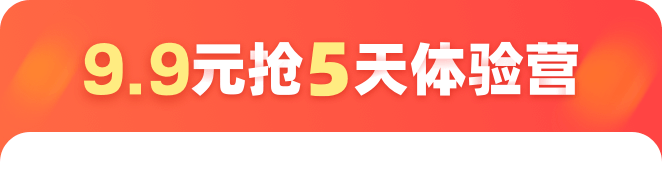
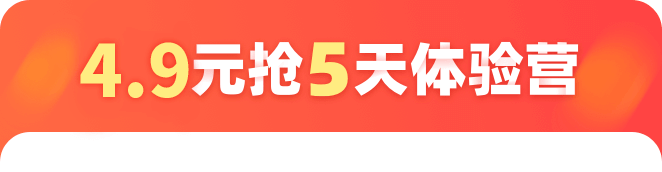
XYZOP-1340: [feature] index page change price to 4.9 and pkg

Changed region(s): [[0.1208, 0.2326, 0.2719, 0.5814], [0.2417, 0.2616, 0.3021, 0.407], [0.2417, 0.2326, 0.2719, 0.2616]]

diff --git a/src/pages/index.vue b/src/pages/index.vue
@@ -252,8 +252,9 @@ export default {
           this.isSys = 2
         }
       }
+      // 0 元对应pkg = 6  0.01 元对应pkg = 3  4.9 元对应pkg = 9
       this.showCents = this.configData.pkg === 6
-      this.bgUrl = this.showCents ? `${this.imgPath}/abtest/ai_referral_mina/default0.png?v=1` : (this.configData.pkg === 3 ? `${this.imgPath}/ai_mina/newIndex2/default001.png` : `${this.imgPath}/ai_mina/newIndex2/default99V1.png`)
+      this.bgUrl = this.showCents ? `${this.imgPath}/abtest/ai_referral_mina/default0.png?v=1` : (this.configData.pkg === 3 ? `${this.imgPath}/ai_mina/newIndex2/default001.png` : `${this.imgPath}/ai_mina/newIndex2/default99V1.png?123`)
       // String 类型试验（第二个参数 ""，表示未命中试验时，会返回此默认值，请根据业务需要更改此处的值）
       if (this.showCents) {
         let that = this
@@ -346,7 +347,7 @@ export default {
         user_status_num = '31'
       }
       this.sa.registerApp({
-        referrer_amount: this.configData.pkg === 6 ? 0 : 9.9
+        referrer_amount: this.configData.pkg === 6 ? 0 : (this.configData.pkg === 3 ? 0.01 : 4.9)
       });
       this.sa.setProfile({
         ai_phoneNumber: this.configData.mobile,
@@ -379,7 +380,7 @@ export default {
         content,
         visit_time: new Date().toLocaleDateString()
       });
-      const ssQuery = `referrer_amount=${this.configData.pkg === 6 ? 0 : (this.configData.pkg === 3 ? 0.01 : 9.9)}&channel_id=${this.configData.scene_data.c}`
+      const ssQuery = `referrer_amount=${this.configData.pkg === 6 ? 0 : (this.configData.pkg === 3 ? 0.01 : 4.9)}&channel_id=${this.configData.scene_data.c}`
       if (this.configData.had_purchased === 1 || (this.store.had_purchased === 1 && this.configData.mobile)) {
         this.go(`/pages/success?success=true&${ssQuery}`)
       } else if (this.configData.had_purchased === 2 || (this.store.had_purchased === 2 && this.configData.mobile)) {
@@ -395,7 +396,7 @@ export default {
       });
       uuid = uuid || this.configData.uuid
       open_id = open_id || this.configData.openid
-      const ssQuery = `referrer_amount=${this.configData.pkg === 6 ? 0 : 9.9}&channel_id=${this.configData.scene_data.c}`
+      const ssQuery = `referrer_amount=${this.configData.pkg === 6 ? 0 : (this.configData.pkg === 3 ? 0.01 : 4.9)}&channel_id=${this.configData.scene_data.c}`
       try {
         let res = await api.createBill({
           uuid,
@@ -477,7 +478,7 @@ export default {
         }
         this.store.mobile = data.mobile
         this.shareScene = data.share_scene
-        const ssQuery = `referrer_amount=${this.configData.pkg === 6 ? 0 : 9.9}&channel_id=${this.configData.scene_data.c}`
+        const ssQuery = `referrer_amount=${this.configData.pkg === 6 ? 0 : (this.configData.pkg === 3 ? 0.01 : 4.9)}&channel_id=${this.configData.scene_data.c}`
         if (data.had_purchased === 1) {
           return this.go(`/pages/success?success=true&${ssQuery}`)
         } else if (data.had_purchased === 2) {
